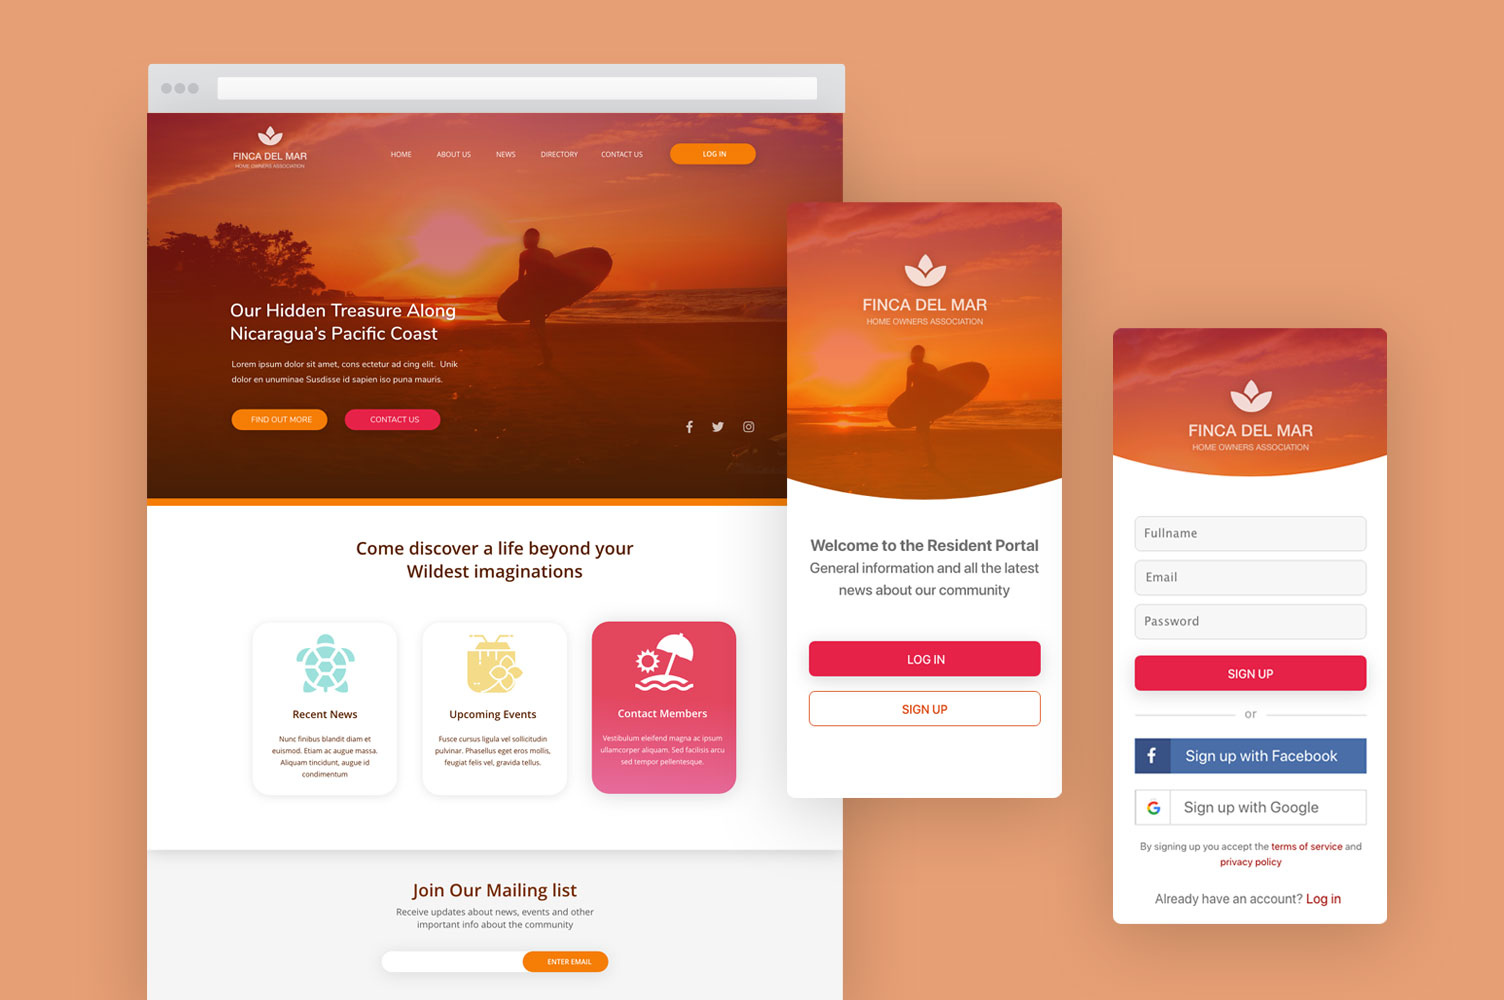
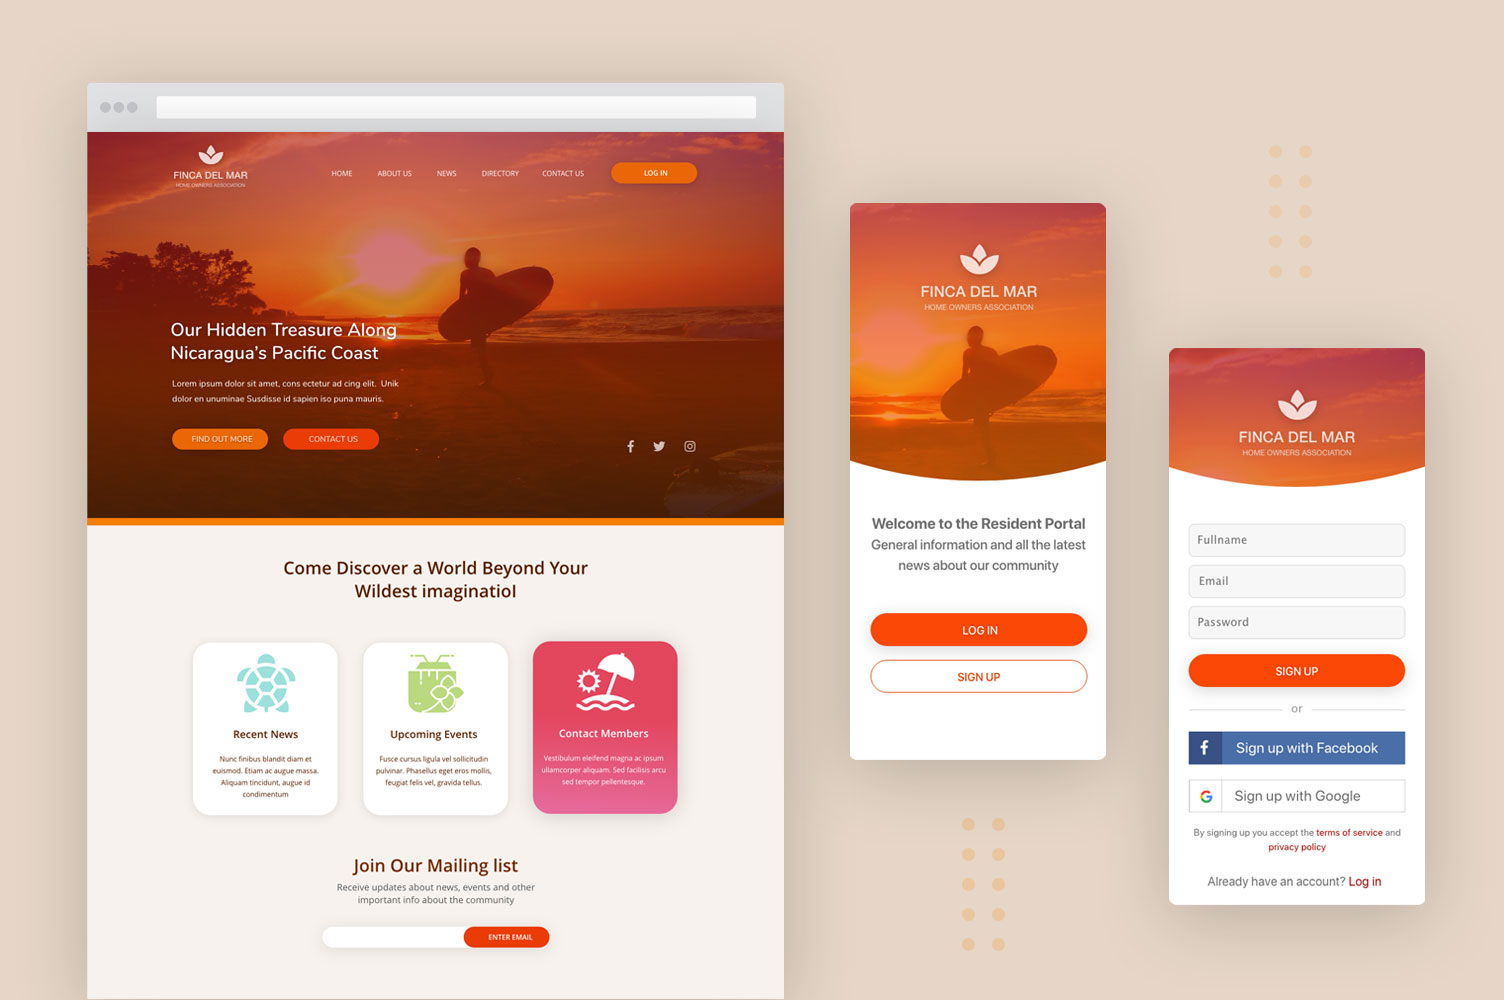
portfolio updates

diff --git a/css/_sections.scss b/css/_sections.scss
@@ -182,7 +182,7 @@ section {
 
 }
 #fdm {
-	background:#e69f75;
+	background:#e6d5c7;
 }
 #amny {
 	background:#f4f4f4;

diff --git a/css/global.css b/css/global.css
@@ -574,7 +574,7 @@ section .title h3 {
 }
 
 #fdm {
-  background: #e69f75;
+  background: #e6d5c7;
 }
 
 #amny {
